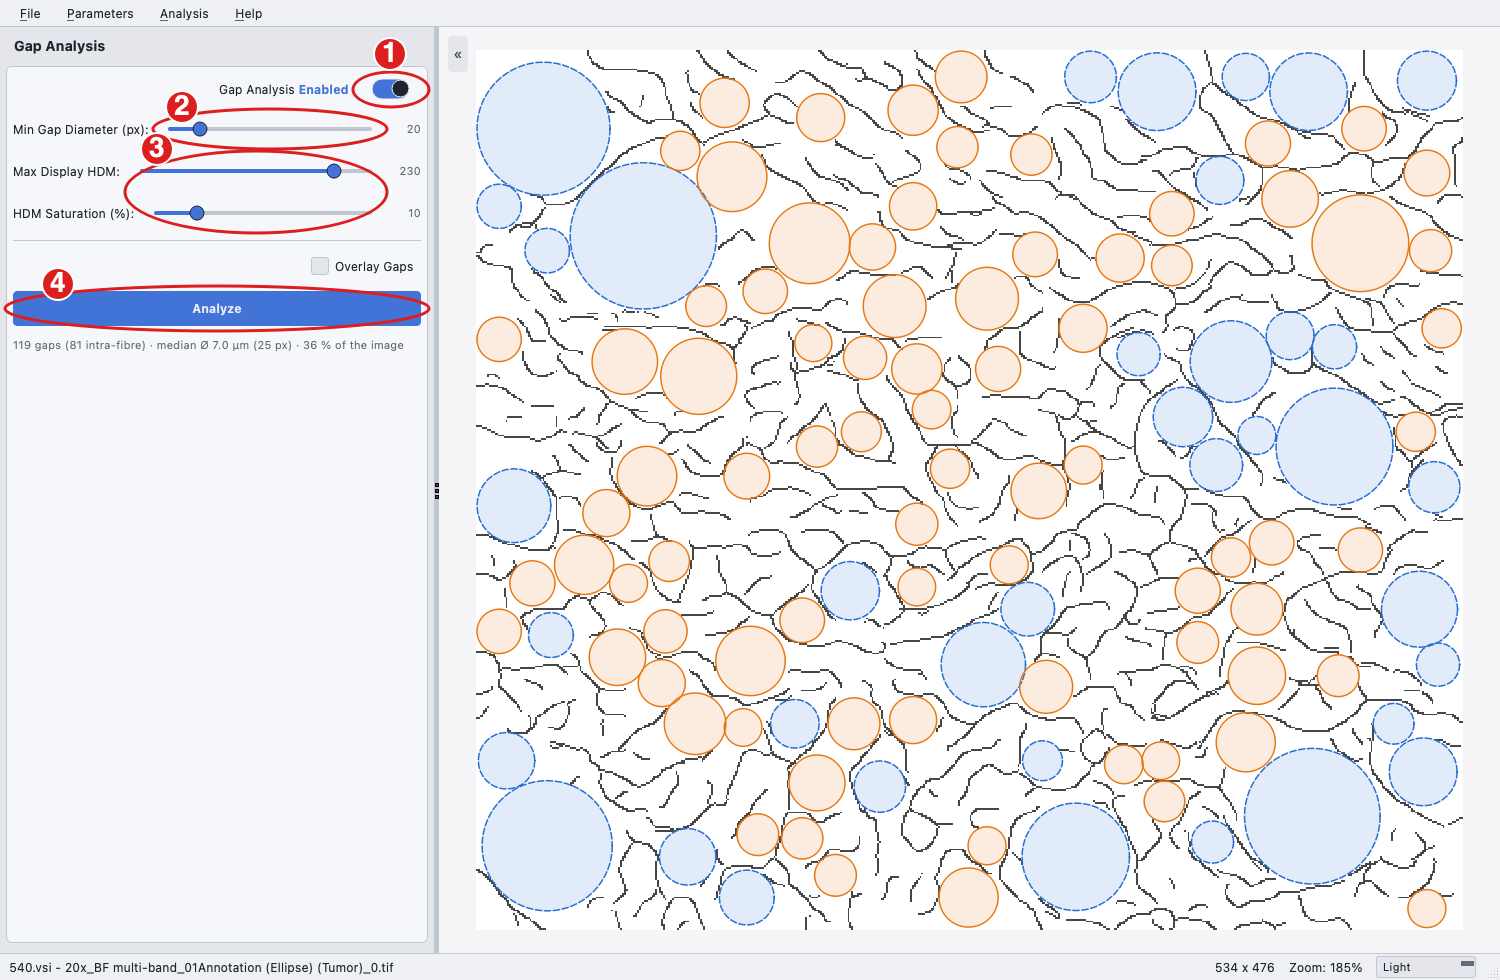
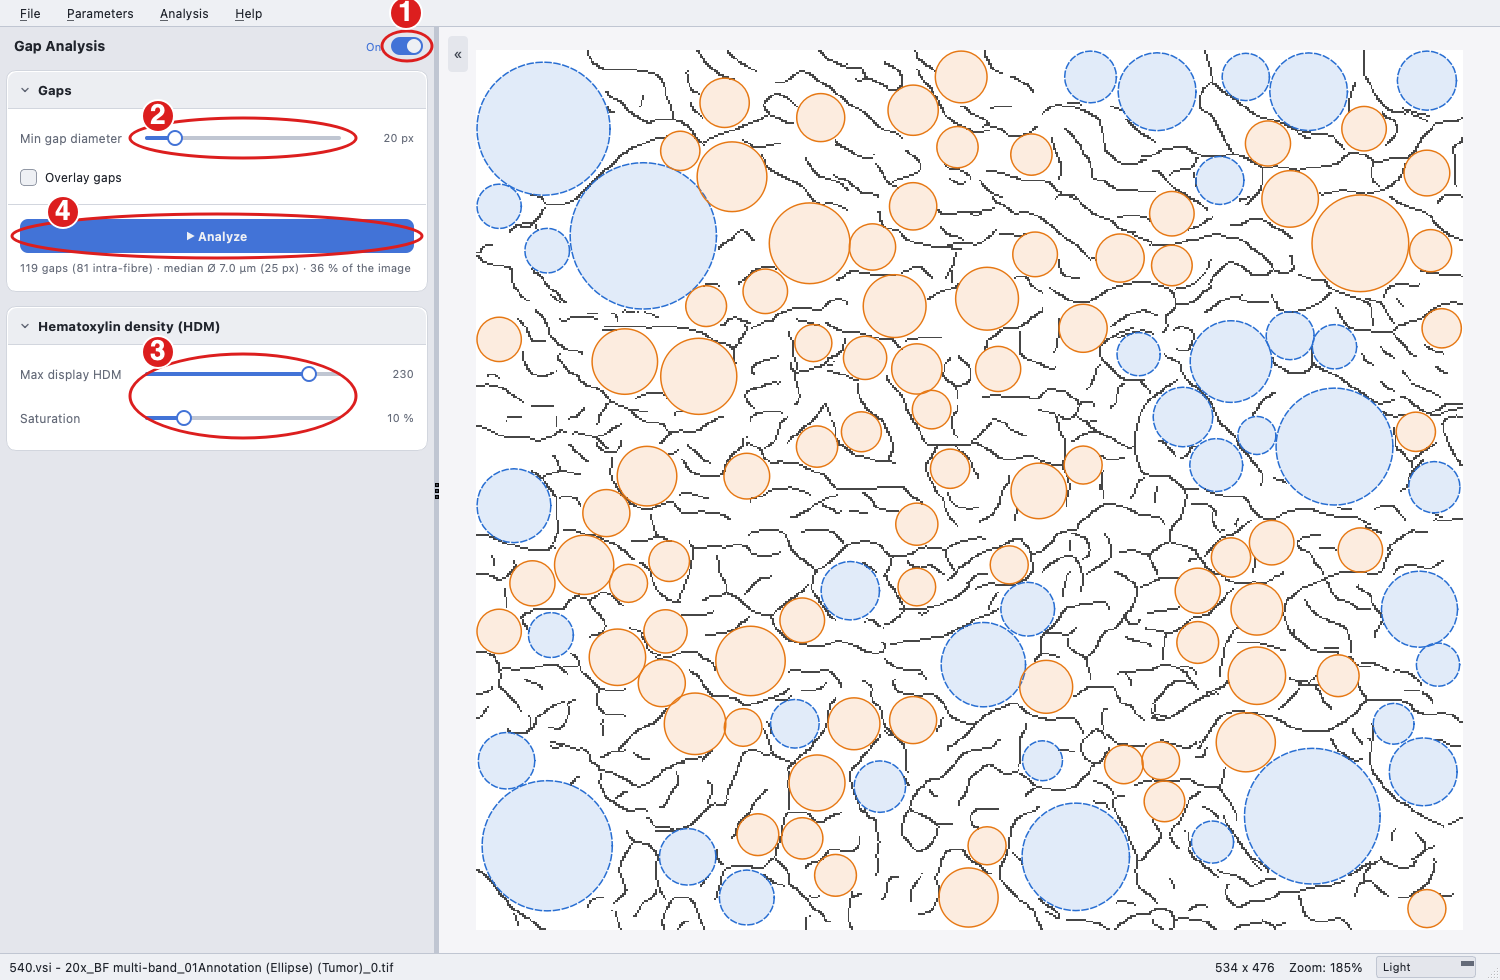
Regenerate the documentation screenshots for the card-style panel
The TMA page is captured in a taller window so all nine markers fit.

Changed region(s): [[0.0, 0.0, 0.3067, 0.4592]]

diff --git a/docs/make_screenshots.py b/docs/make_screenshots.py
@@ -223,6 +223,7 @@ def main(argv):
             print("TMA slide not found, skipping tma.png:", SLIDE)
         else:
             win.show_page(win.pages.indexOf(win.tma_tab))
+            win.resize(1500, 1340)          # the four TMA cards need the extra height
             settle(app)
             win.tma_slide = SLIDE
             win.tma_slide_path.setText(SLIDE)
@@ -248,6 +249,7 @@ def main(argv):
                 (8, rect_of(win, win.tma_output_path), "right"),
                 (9, rect_of(win, win.tma_export_btn)),
             ])
+            win.resize(1500, 980)
 
     if want("birefringence"):
         if not os.path.exists(POL):
